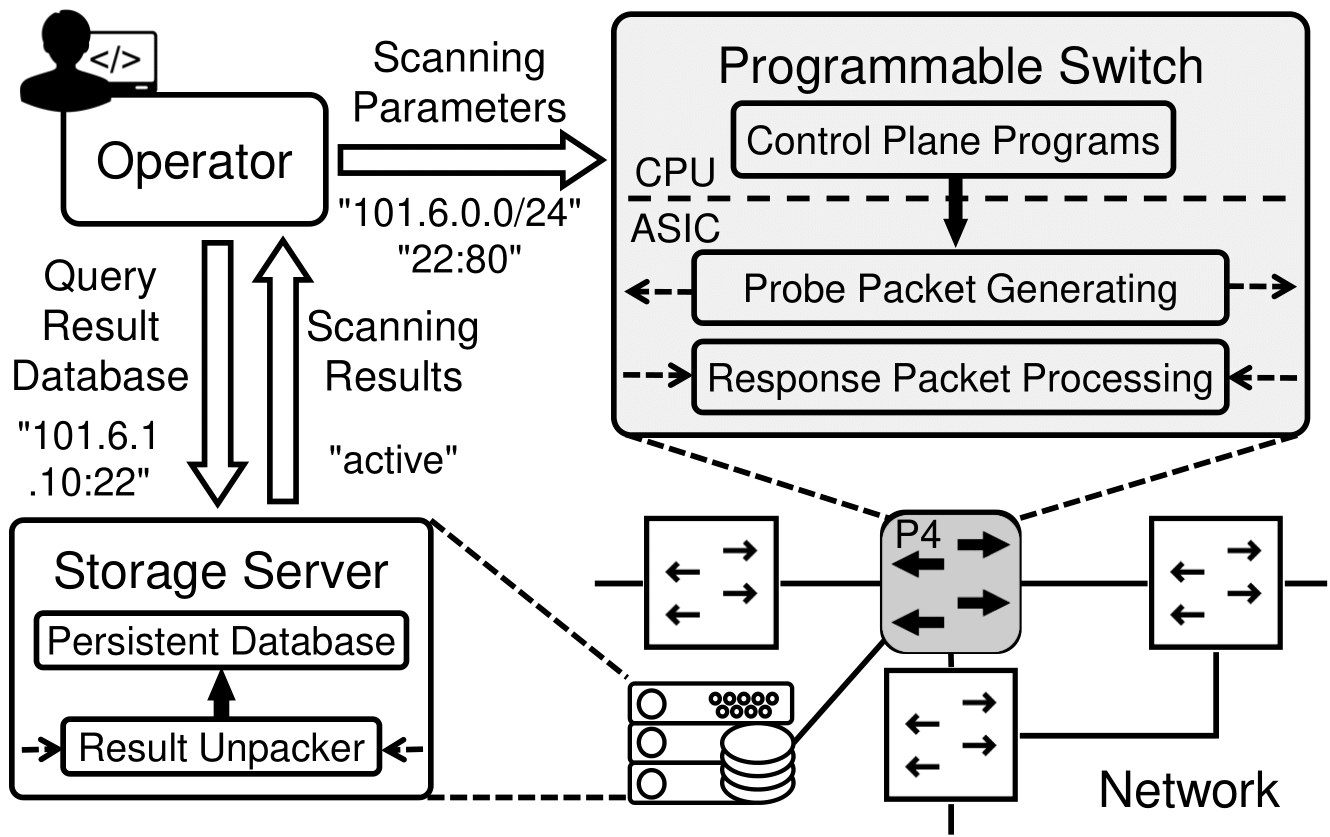
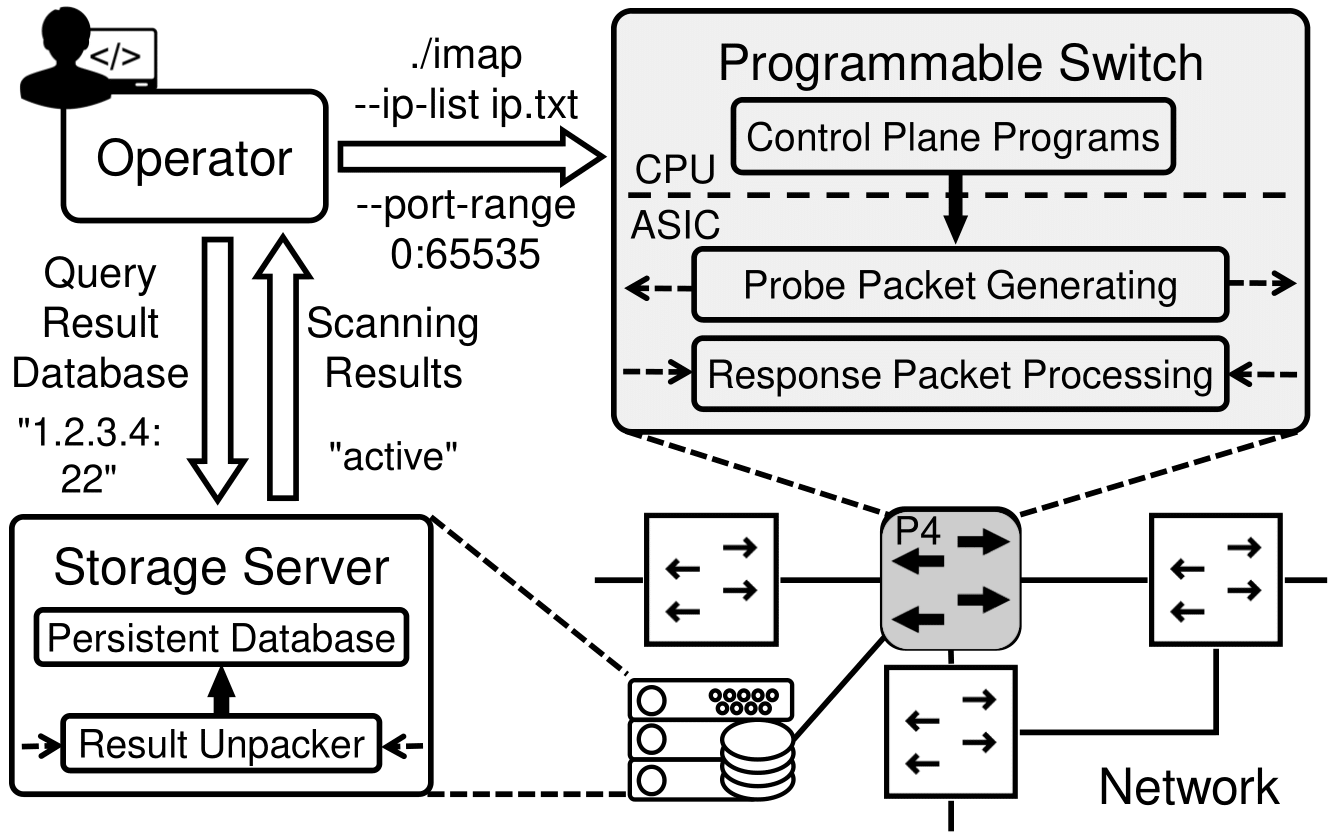
Update the figure of IMap workflow

diff --git a/src/switch/imap.c b/src/switch/imap.c
@@ -60,7 +60,7 @@ static void parse_options(imap_conf_t *iconf, int argc, char **argv) {
         {"rate", required_argument, 0, OPT_RATE},
         {"seed-rate", required_argument, 0, OPT_SEED_RATE},
         {"waiting-time", required_argument, 0, OPT_WAITING_TIME},
-        {"config-file", required_argument, 0, OPT_CONFIG_FILE},
+        {"ip-list", required_argument, 0, OPT_CONFIG_FILE},
     };
 
     memset(iconf, 0, sizeof(imap_conf_t));
@@ -112,7 +112,7 @@ static void parse_options(imap_conf_t *iconf, int argc, char **argv) {
                 break;
             case OPT_CONFIG_FILE:
                 strcpy(iconf->config_filename, optarg);
-                printf("Config file: %s\n", optarg);
+                printf("IP list config file: %s\n", optarg);
                 break;
             case 'h':
             case '?':

diff --git a/README.md b/README.md
@@ -56,5 +56,5 @@ sudo ./imap-result-server -l 0-7 -n 8 -- -p 1
 ```
 ### Start the IMap scanner on the switch
 ```sh
-./imap --probe-port-range 0:65535 --rate 45000000
+./imap --probe-port-range 0:65535 --ip-list ip.txt --rate 55000000
 ```
